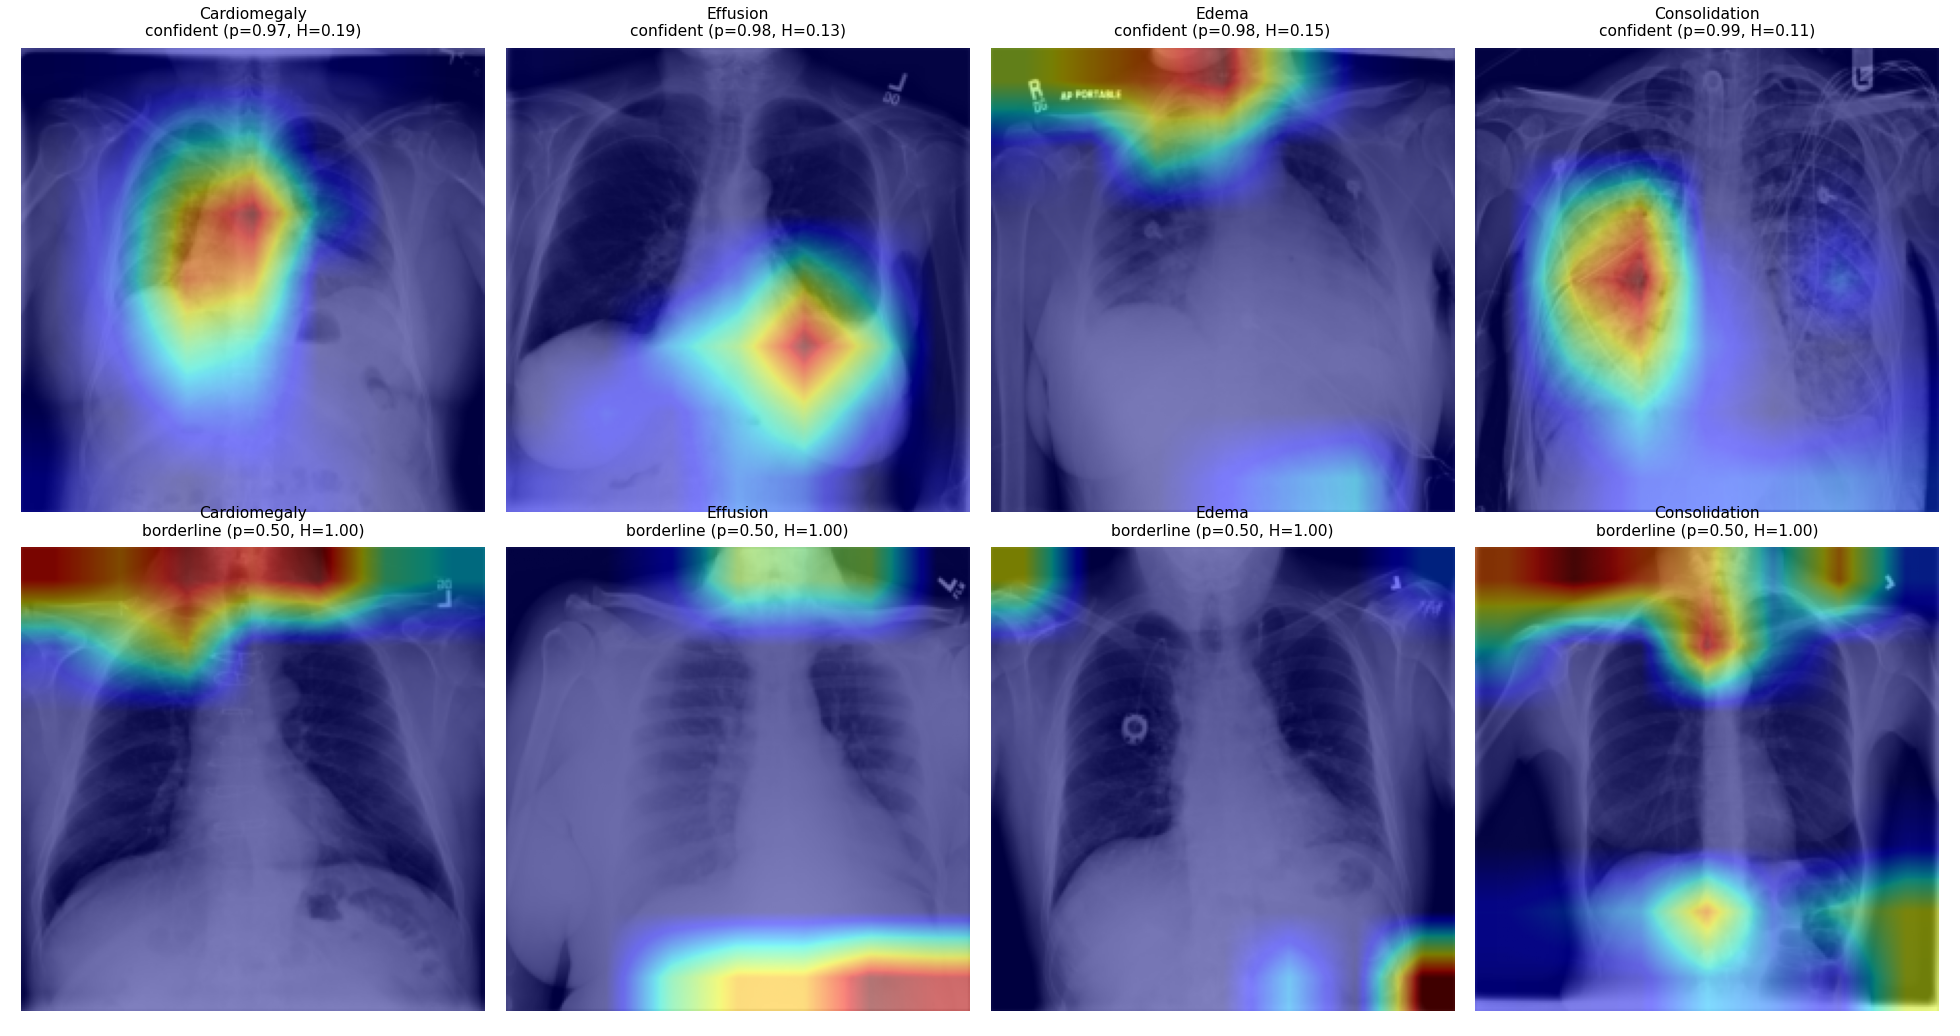
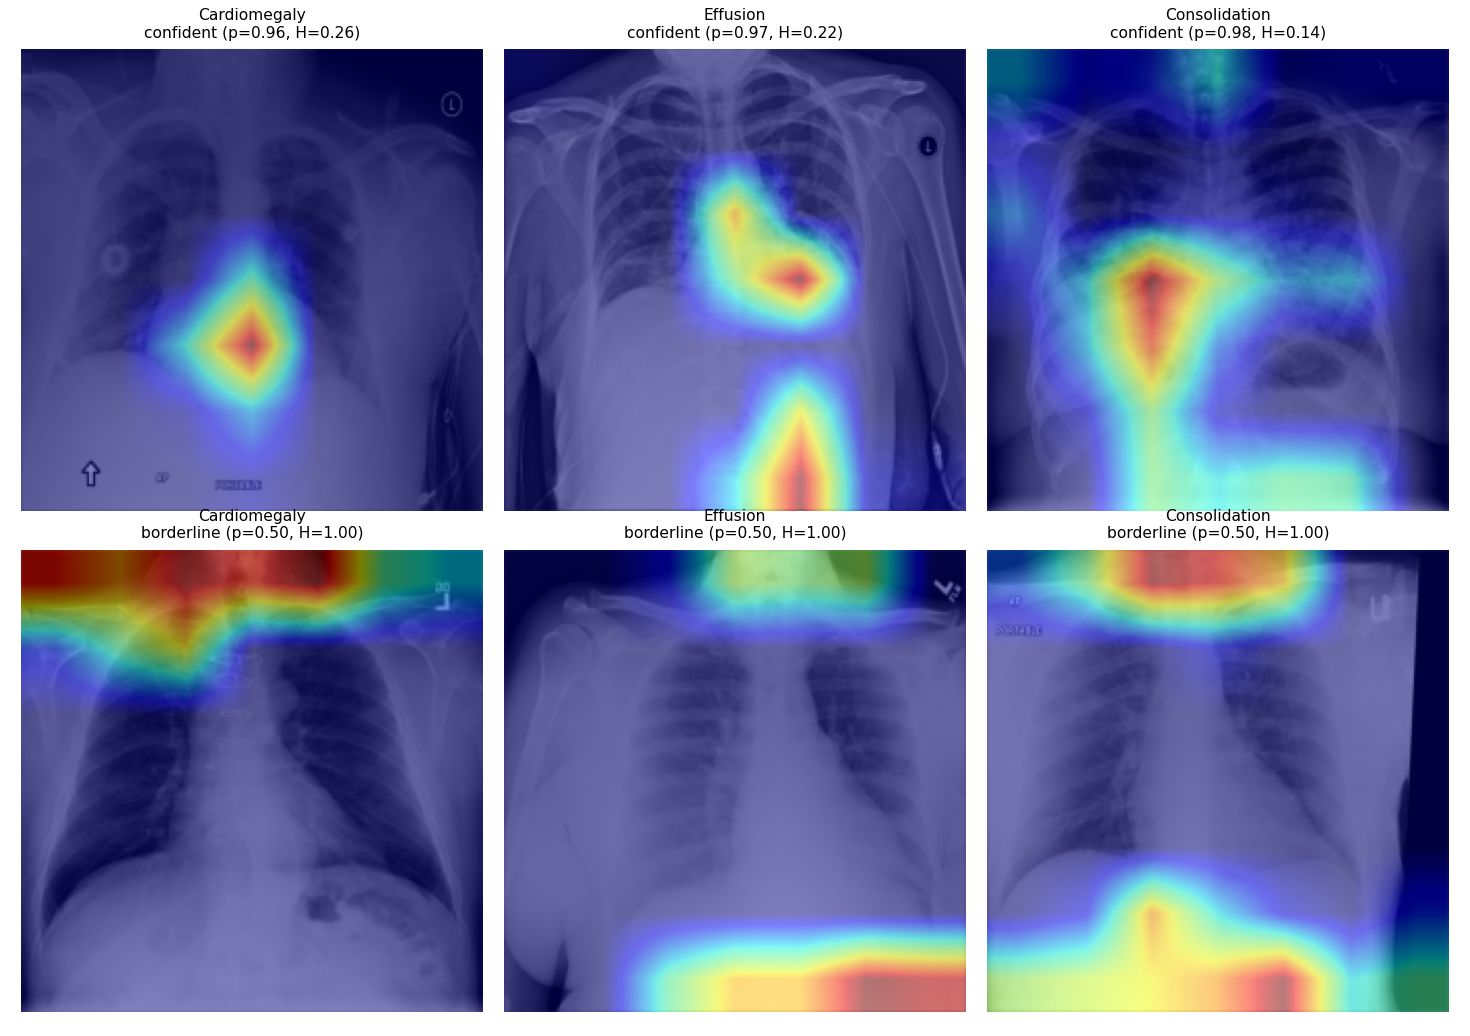
Grad-CAM: representative on-lung examples (3 pathologies); soften caption to supported claim; rebuild docx; sync response

diff --git a/index.html b/index.html
@@ -152,7 +152,7 @@
 <h3>4.5 Decision-region behaviour and interpretability</h3>
 <p>Model behavior around uncertain regions can be illustrated using input gradients, which capture the local sensitivity of predictions to small changes in the image. Confident predictions are expected to exhibit local smoothness, whereas predictions near a decision boundary are more likely to demonstrate elevated sensitivity. We compute input gradients for each image and recompute them after applying low-variance white Gaussian noise, quantifying gradient volatility using the signal-to-noise ratio between the original and perturbed maps. Rejected cases exhibit substantial gradient changes under minimal perturbations, indicating an unstable decision surface, whereas accepted cases show consistent gradient patterns.</p>
 <figure><img src="assets/e5_gradcam_nih.png" alt="Grad-CAM borderline vs confident">
-<figcaption><mark class="add">Figure 5: Grad-CAM overlays for confident accepted cases (top) and borderline rejected cases (bottom) for each pathology. Accepted cases localize on the relevant anatomy, while rejected cases show diffuse or unstable activation, complementing the gradient-volatility analysis.</mark></figcaption></figure>
+<figcaption><mark class="add">Figure 5: Representative Grad-CAM overlays for confident accepted predictions (top) and borderline deferred predictions (bottom). Accepted predictions show activation concentrated over the lung fields, whereas deferred predictions show more diffuse activation, complementing the gradient-volatility analysis.</mark></figcaption></figure>
 
 <h2>5. Discussion</h2>
 <p>The results show that selective prediction provides meaningful control over the trade-off between predictive confidence and coverage. <mark class="edit">At a calibrated operating point, deferring the most uncertain per-pathology predictions improves balanced accuracy across all four conditions, across datasets, and across training regimes, and the risk-coverage curves give a complete, threshold-aware view of the accuracy-coverage trade-off.</mark> The improvement is most pronounced for conditions where the model is less certain, consistent with rejection concentrating on ambiguous or low-prevalence findings such as Edema and Consolidation. <mark class="add">A leave-one-dataset-out evaluation quantifies the domain-shift penalty and shows the regime in which selective prediction is most valuable, since abstaining on uncertain cases reduces the risk associated with out-of-distribution inputs while preserving reliable predictions.</mark> Together these findings support uncertainty-aware selective prediction as a route to safer, more trustworthy AI-assisted diagnosis.</p>

diff --git a/response.html b/response.html
@@ -50,7 +50,7 @@
 <ul>
 <li><b>AUC claim corrected.</b> With bootstrap CIs, entropy rejection does not improve AUC at any rejection rate, in-distribution (NIH n=22,000: <span class="num">0 of 20</span> class&times;rate cells with a CI excluding 0) or under domain shift (significantly negative), and it significantly decreases AUC for Consolidation (<span class="num">&minus;0.047 at 25% rejection, 95% CI [&minus;0.058, &minus;0.034]</span>). Rejecting near-boundary cases removes the informative middle of the ranking, so AUC, a ranking measure, cannot rise. AUC is not the appropriate metric for selective prediction.</li>
 <li><b>Reliability gain reported on the correct metric.</b> Balanced accuracy at a calibrated operating point improves for all four classes at 30% rejection (NIH, bootstrap, all CIs exclude 0): Cardiomegaly <span class="num">+0.082 [0.056, 0.113]</span>, Effusion <span class="num">+0.043 [0.029, 0.060]</span>, Edema <span class="num">+0.086 [0.054, 0.125]</span>, Consolidation <span class="num">+0.076 [0.057, 0.095]</span>. Replicated on MIMIC-CXR (three of four significant; fourth positive) and on an independently trained weighted-BCE model.</li>
-<li><b>Borderline Grad-CAM added</b> (matched confident-accepted vs borderline-rejected cases per pathology), alongside the gradient-volatility figure.</li>
+<li><b>Borderline Grad-CAM added</b> (representative confident-accepted vs borderline-deferred examples; accepted predictions concentrate activation over the lung fields, deferred predictions are more diffuse), alongside the gradient-volatility figure.</li>
 <li><b>Reproducibility appendix:</b> fixed seeds, input resolution (224&times;224) and normalization, patient-level calibration/evaluation split sizes, operating-threshold selection, optimizer/schedule, and a threshold-sensitivity analysis (0.70&ndash;0.99). Code and frozen per-image predictions released.</li>
 </ul>
 </div>